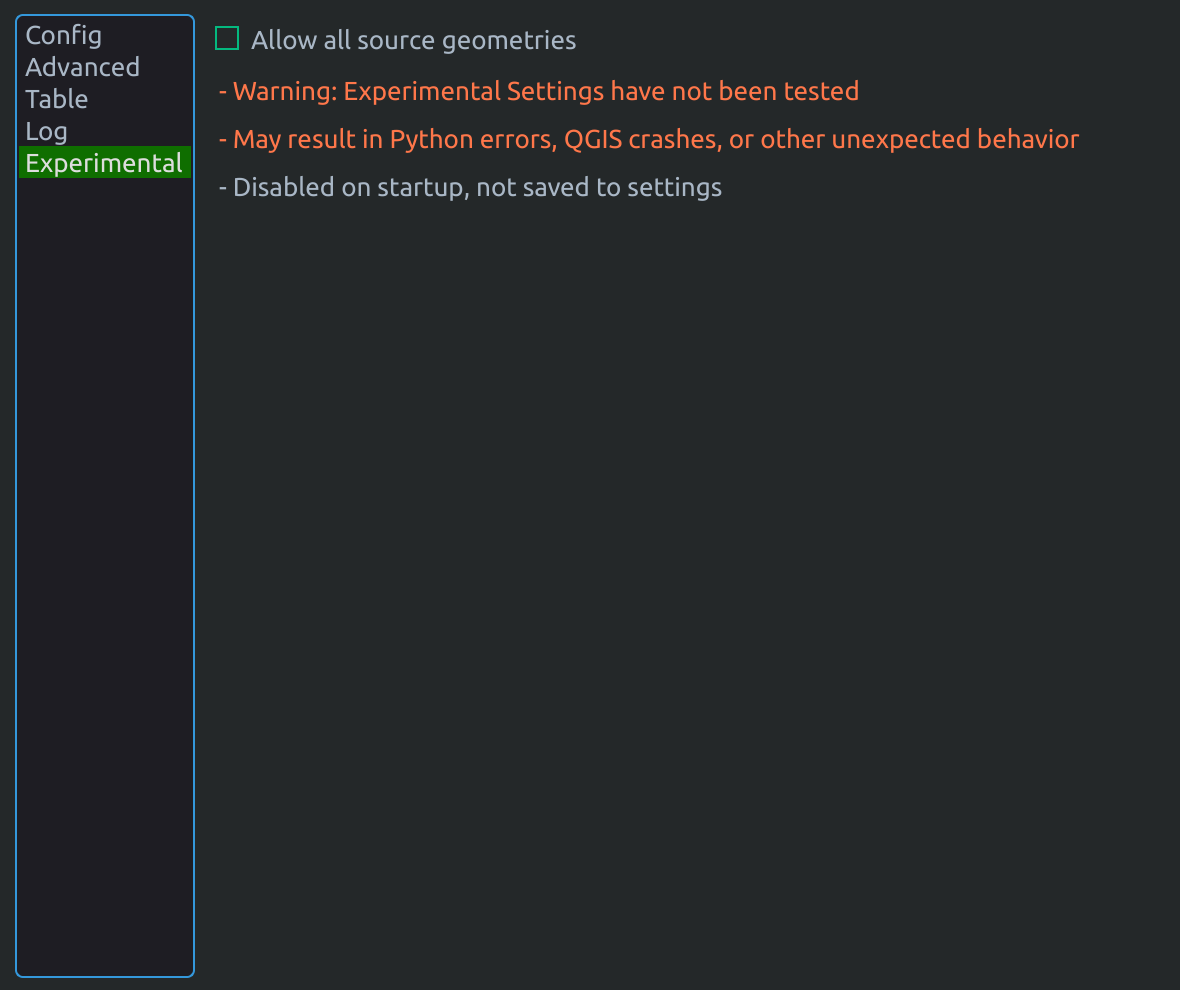
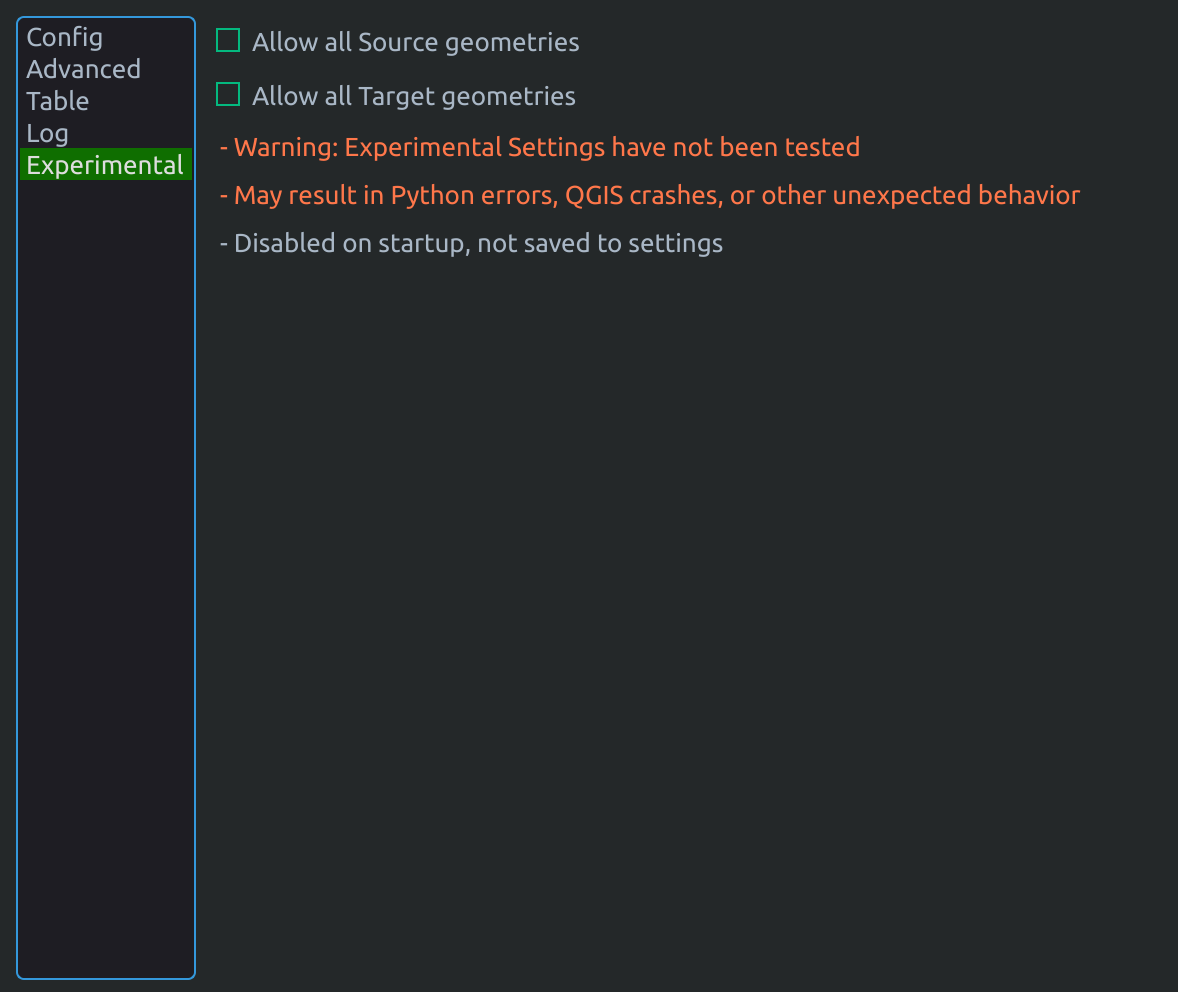
Updated Readme for all target geoms option

Changed region(s): [[0.0, 0.0, 0.9168, 0.9697]]

diff --git a/README.md b/README.md
@@ -148,8 +148,12 @@ The plugin directory can be found from the QGIS menu bar:
   
   <img src="img/readme/experimental_page.png" align="right" width="400">
 
-  - **Allow all source geometries**
+  - **Allow all Source geometries**
     - When checked **Source** layers can have any geometry.
       - Default (unchecked) is limited to only *Line* geometry.
+
+  - **Allow all Target geometries**
+    - When checked **Target** layers can have any geometry.
+      - Default (unchecked) is limited to only *Point* geometry.
 
 <br clear="right"/>
